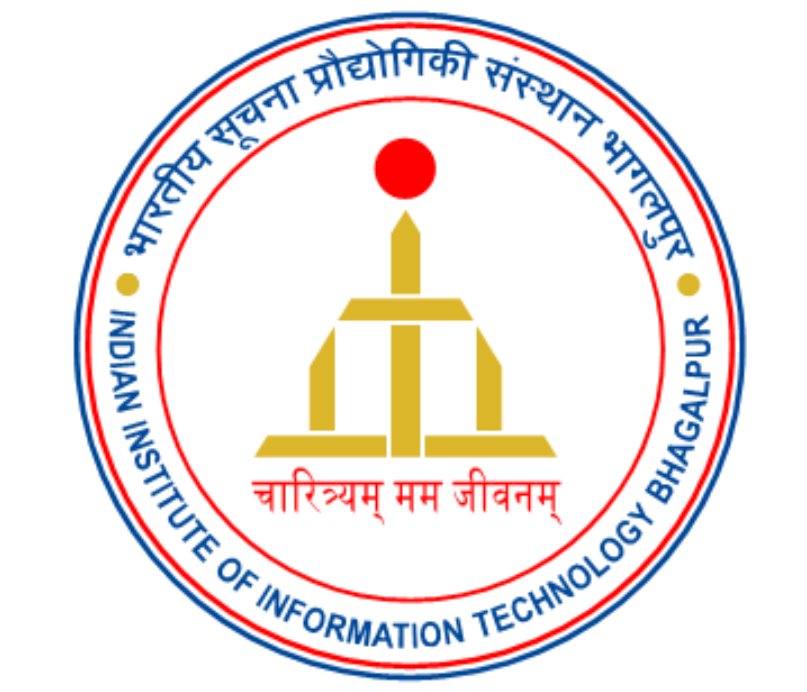
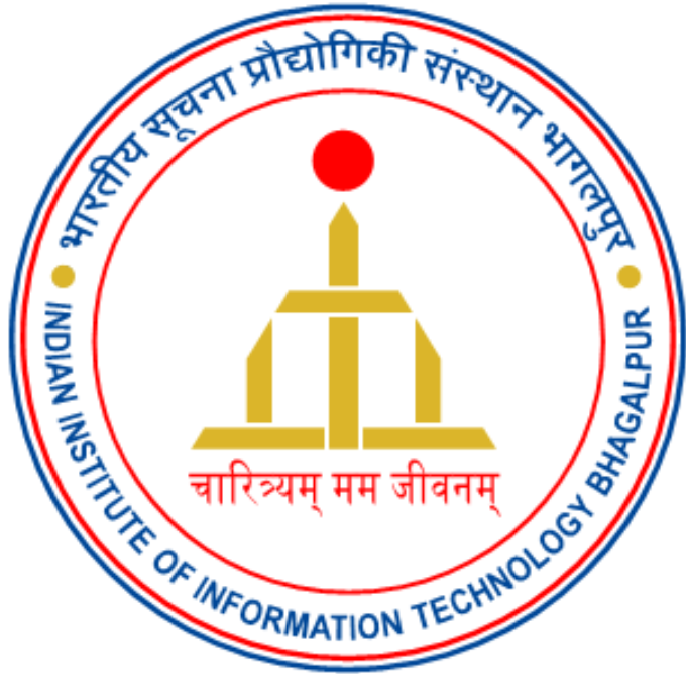
dn

diff --git a/form.js b/form.js
@@ -20,6 +20,12 @@ function showContent(type) {
             <label for="category">Category:</label>
             <select id="category" name="category" required>
                 <option value="">Select Category</option>
+                <option value="">Academic Issues</option>
+                <option value="">Hostel Complaints</option>
+                <option value="">Mess Issues</option>
+                <option value="">Library Concerns</option>
+                <option value="">IT Support</option>
+                <option value="">Other Issues</option>
             </select><br>
 
             <label for="additional-info">Additional Information:</label>

diff --git a/style.css b/style.css
@@ -14,9 +14,11 @@ body {
 }
 
 .header img {
-    width: 80px;
+    width: 50px;
     height: auto;
+    zoom: 200%;
     margin-bottom: 10px;
+    border-radius: 50px;
 }
 
 .header h1 {
@@ -145,6 +147,7 @@ input[type="submit"] {
     padding: 20px;
     border-radius: 15px;
     width: 30%;
+    margin-left: 10px;
     box-shadow: 0 4px 8px rgba(203, 205, 153, 0.771);
 }
 

diff --git a/student.html b/student.html
@@ -10,7 +10,7 @@
 
 <body>
     <div class="header">
-        <img src="https://img.icons8.com/dusk/64/university.png" alt="College Logo">
+        <img src="shubhankar/iiitbgp.png" alt="College Logo">
         <h1>Student Complaint System</h1>
     </div>
 

diff --git a/admin.html b/admin.html
@@ -10,7 +10,7 @@
 </head>
 <body>
     <div class="header">
-        <img src="https://img.icons8.com/dusk/64/university.png" alt="SETI Logo">
+        <img src="shubhankar/iiitbgp.png" alt="SETI Logo">
         <h1>Admin Portal</h1>
     </div>
 

diff --git a/shubhankar/style_02.css b/shubhankar/style_02.css
@@ -14,10 +14,11 @@ body {
 }
 
 .header img {
-    width: 80px;
+    width: 50px;
     height: auto;
+    zoom: 200%;
     margin-bottom: 10px;
-    border-radius: 50%;
+    border-radius: 50px;
 }
 
 .header h1 {
